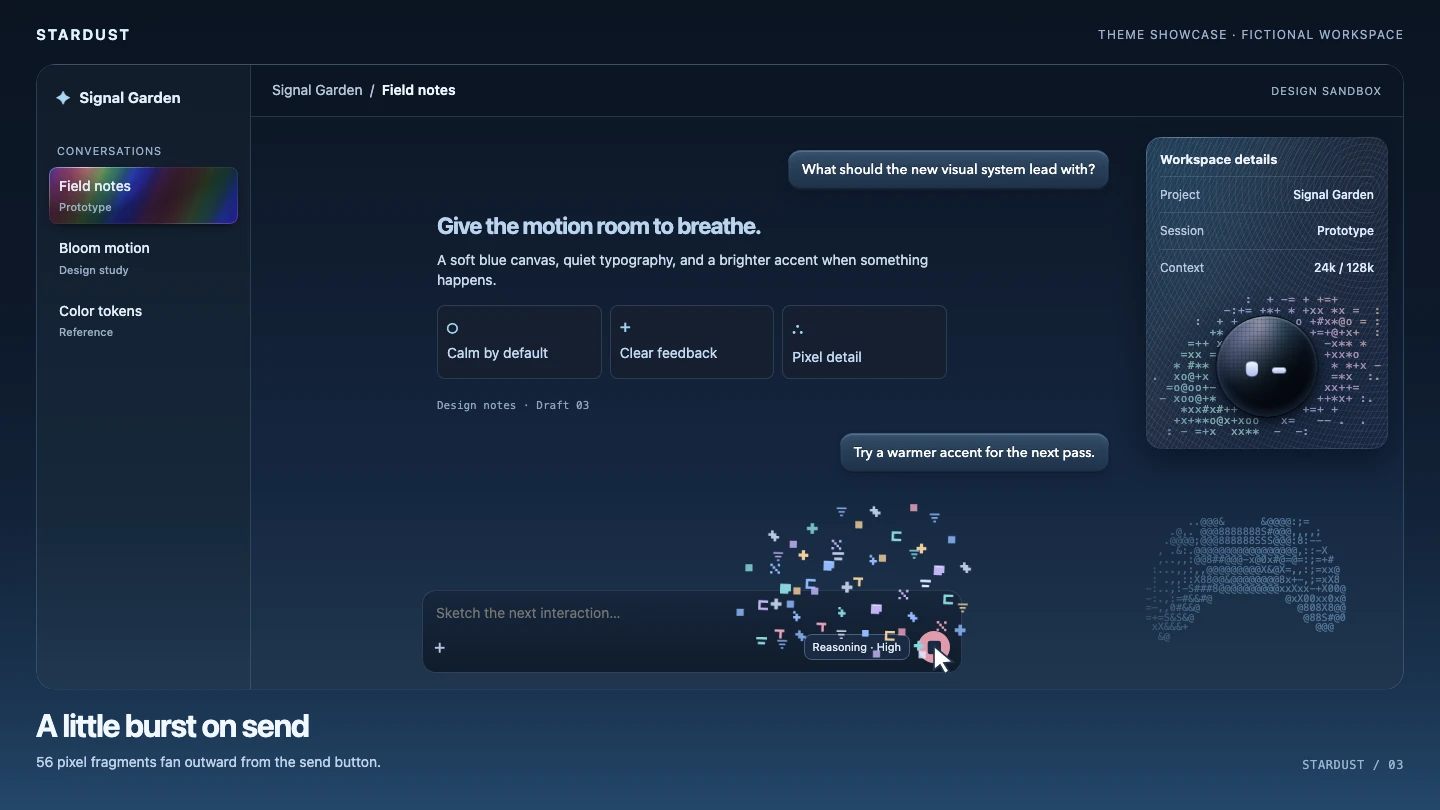
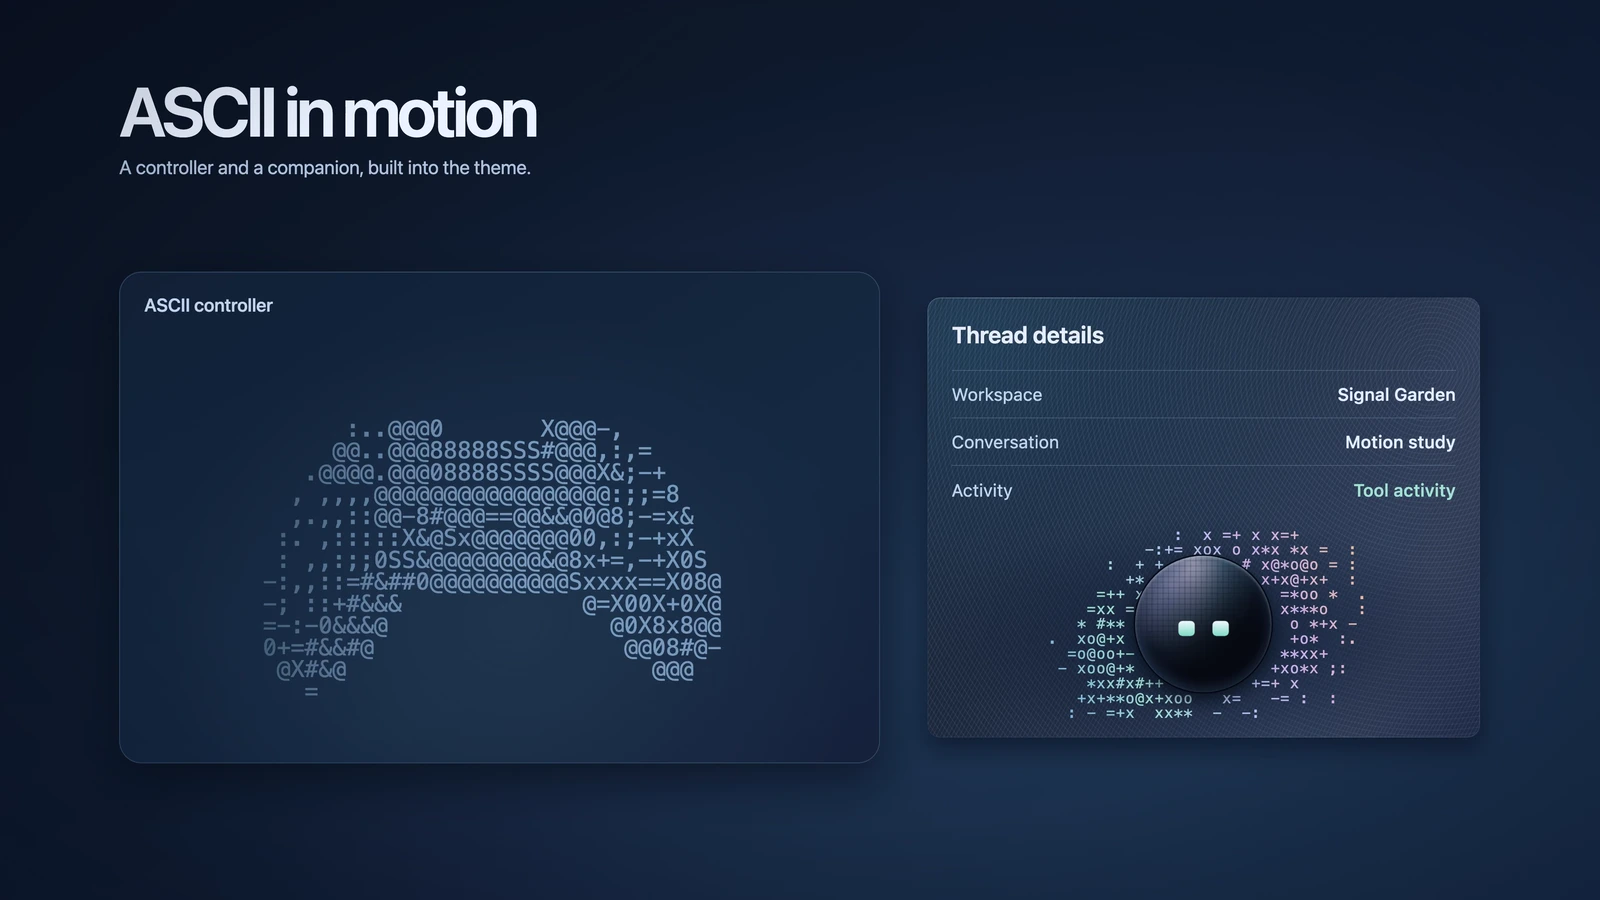
Feature the 4K Stardust launch film

diff --git a/README.md b/README.md
@@ -4,7 +4,7 @@ Stardust is a dark, single-file theme for T3 Code. A quiet blue canvas makes roo
 
 ![Stardust in Signal Garden, a fictional workspace](media/preview.webp)
 
-[Download the theme](https://github.com/Ne1ther/stardust-t3/releases/latest/download/stardust.json) · [Watch the demo](https://github.com/Ne1ther/stardust-t3/releases/latest/download/stardust-demo.mp4)
+[Download the theme](https://github.com/Ne1ther/stardust-t3/releases/latest/download/stardust.json) · [Watch the 4K launch film](https://github.com/Ne1ther/stardust-t3/releases/latest/download/stardust-launch-4k.mp4)
 
 ## The details
 
@@ -23,7 +23,7 @@ Stardust is a dark, single-file theme for T3 Code. A quiet blue canvas makes roo
 
 The JSON was validated with the T3 Code Nightly theme loader. The controller needs a wide conversation layout, and the companion appears in the thread details panel. Reduced Motion disables the main visual animations. The theme embeds its artwork and needs no external asset requests.
 
-The demo uses the theme's CSS in a fictional workspace. All projects, messages, model labels, and usage figures shown are sample content.
+The 4K launch film shows a conversation switch, the send burst, all six reasoning levels, the full ASCII controller turn, and the companion inside the thread details card. It uses the theme's artwork and CSS in a fictional workspace.
 
 ## Credits
 
